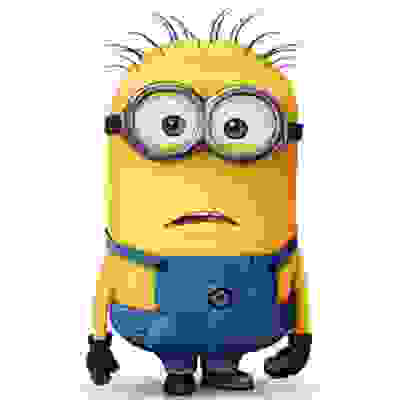
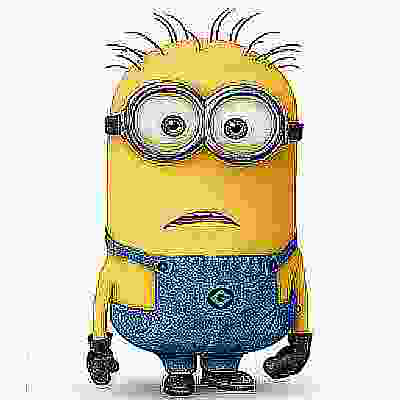
Stopped writing to disk, research
PErformed research on the art of the minion, added like 10 sharpen
filters

diff --git a/facebookify.py b/facebookify.py
@@ -1,19 +1,23 @@
 #!/usr/bin/env python3
 import argparse
-from PIL import Image
+from PIL import Image, ImageFilter
 import tempfile
+import io
 
-parser = argparse.ArgumentParser(description="!@#")
+parser = argparse.ArgumentParser(description="Makes a image look like it does on facebook")
 parser.add_argument('input', metavar='INPUT', help="input image")
 parser.add_argument('output', metavar='OUTPUT', help="output image")
-parser.add_argument('--iterations', '-i', metavar='ITERATIONS', type=int, default=1024, help="how many iterations to run")
-parser.add_argument('--quality', '-q', metavar='QUALITY', type=int, default=1, help="default quality")
+parser.add_argument('--iterations', '-i', metavar='ITERATIONS', type=int, default=256, help="how many iterations to run")
+parser.add_argument('--quality', '-q', metavar='QUALITY', type=int, default=10, help="default quality")
 args = parser.parse_args()
 
 im = Image.open(args.input)
-temp = tempfile.TemporaryFile()
+#temp = tempfile.TemporaryFile()
+temp = io.BytesIO()
 
 for i in range(args.iterations):
+    for i in range(5):
+        im = im.filter(ImageFilter.SHARPEN)
     im.save(temp, "JPEG", quality=args.quality)
     im = Image.open(temp)
 
